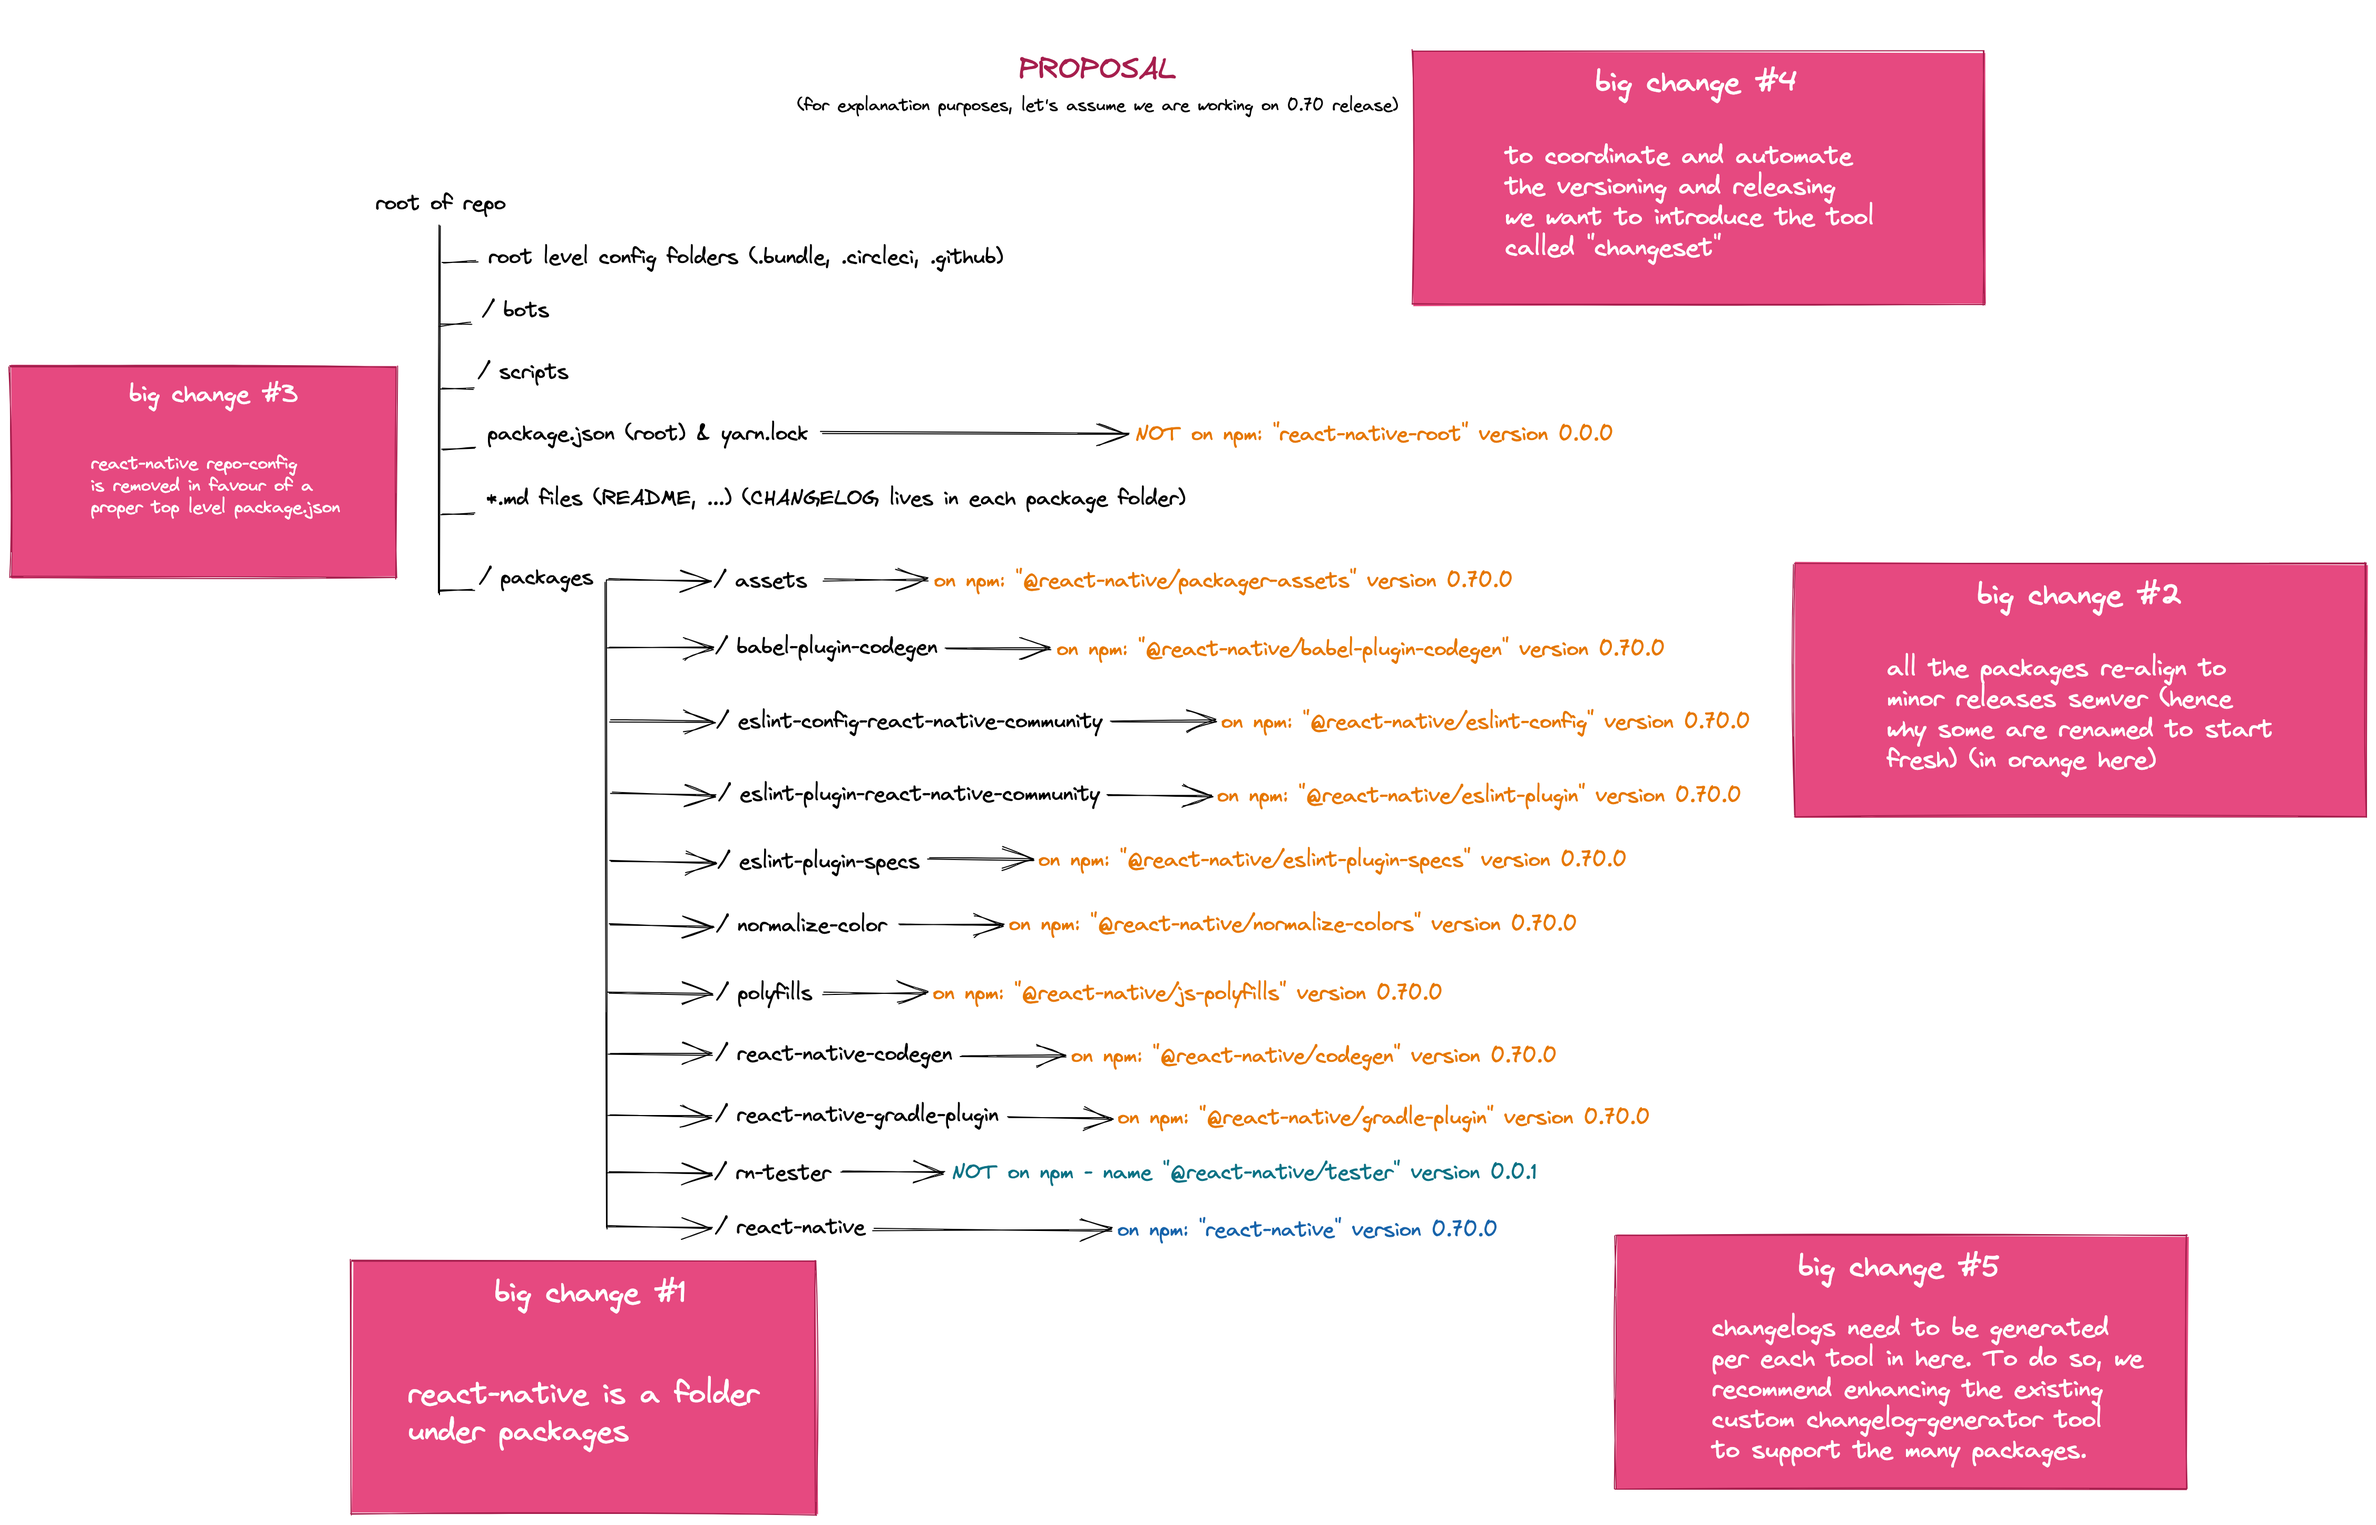
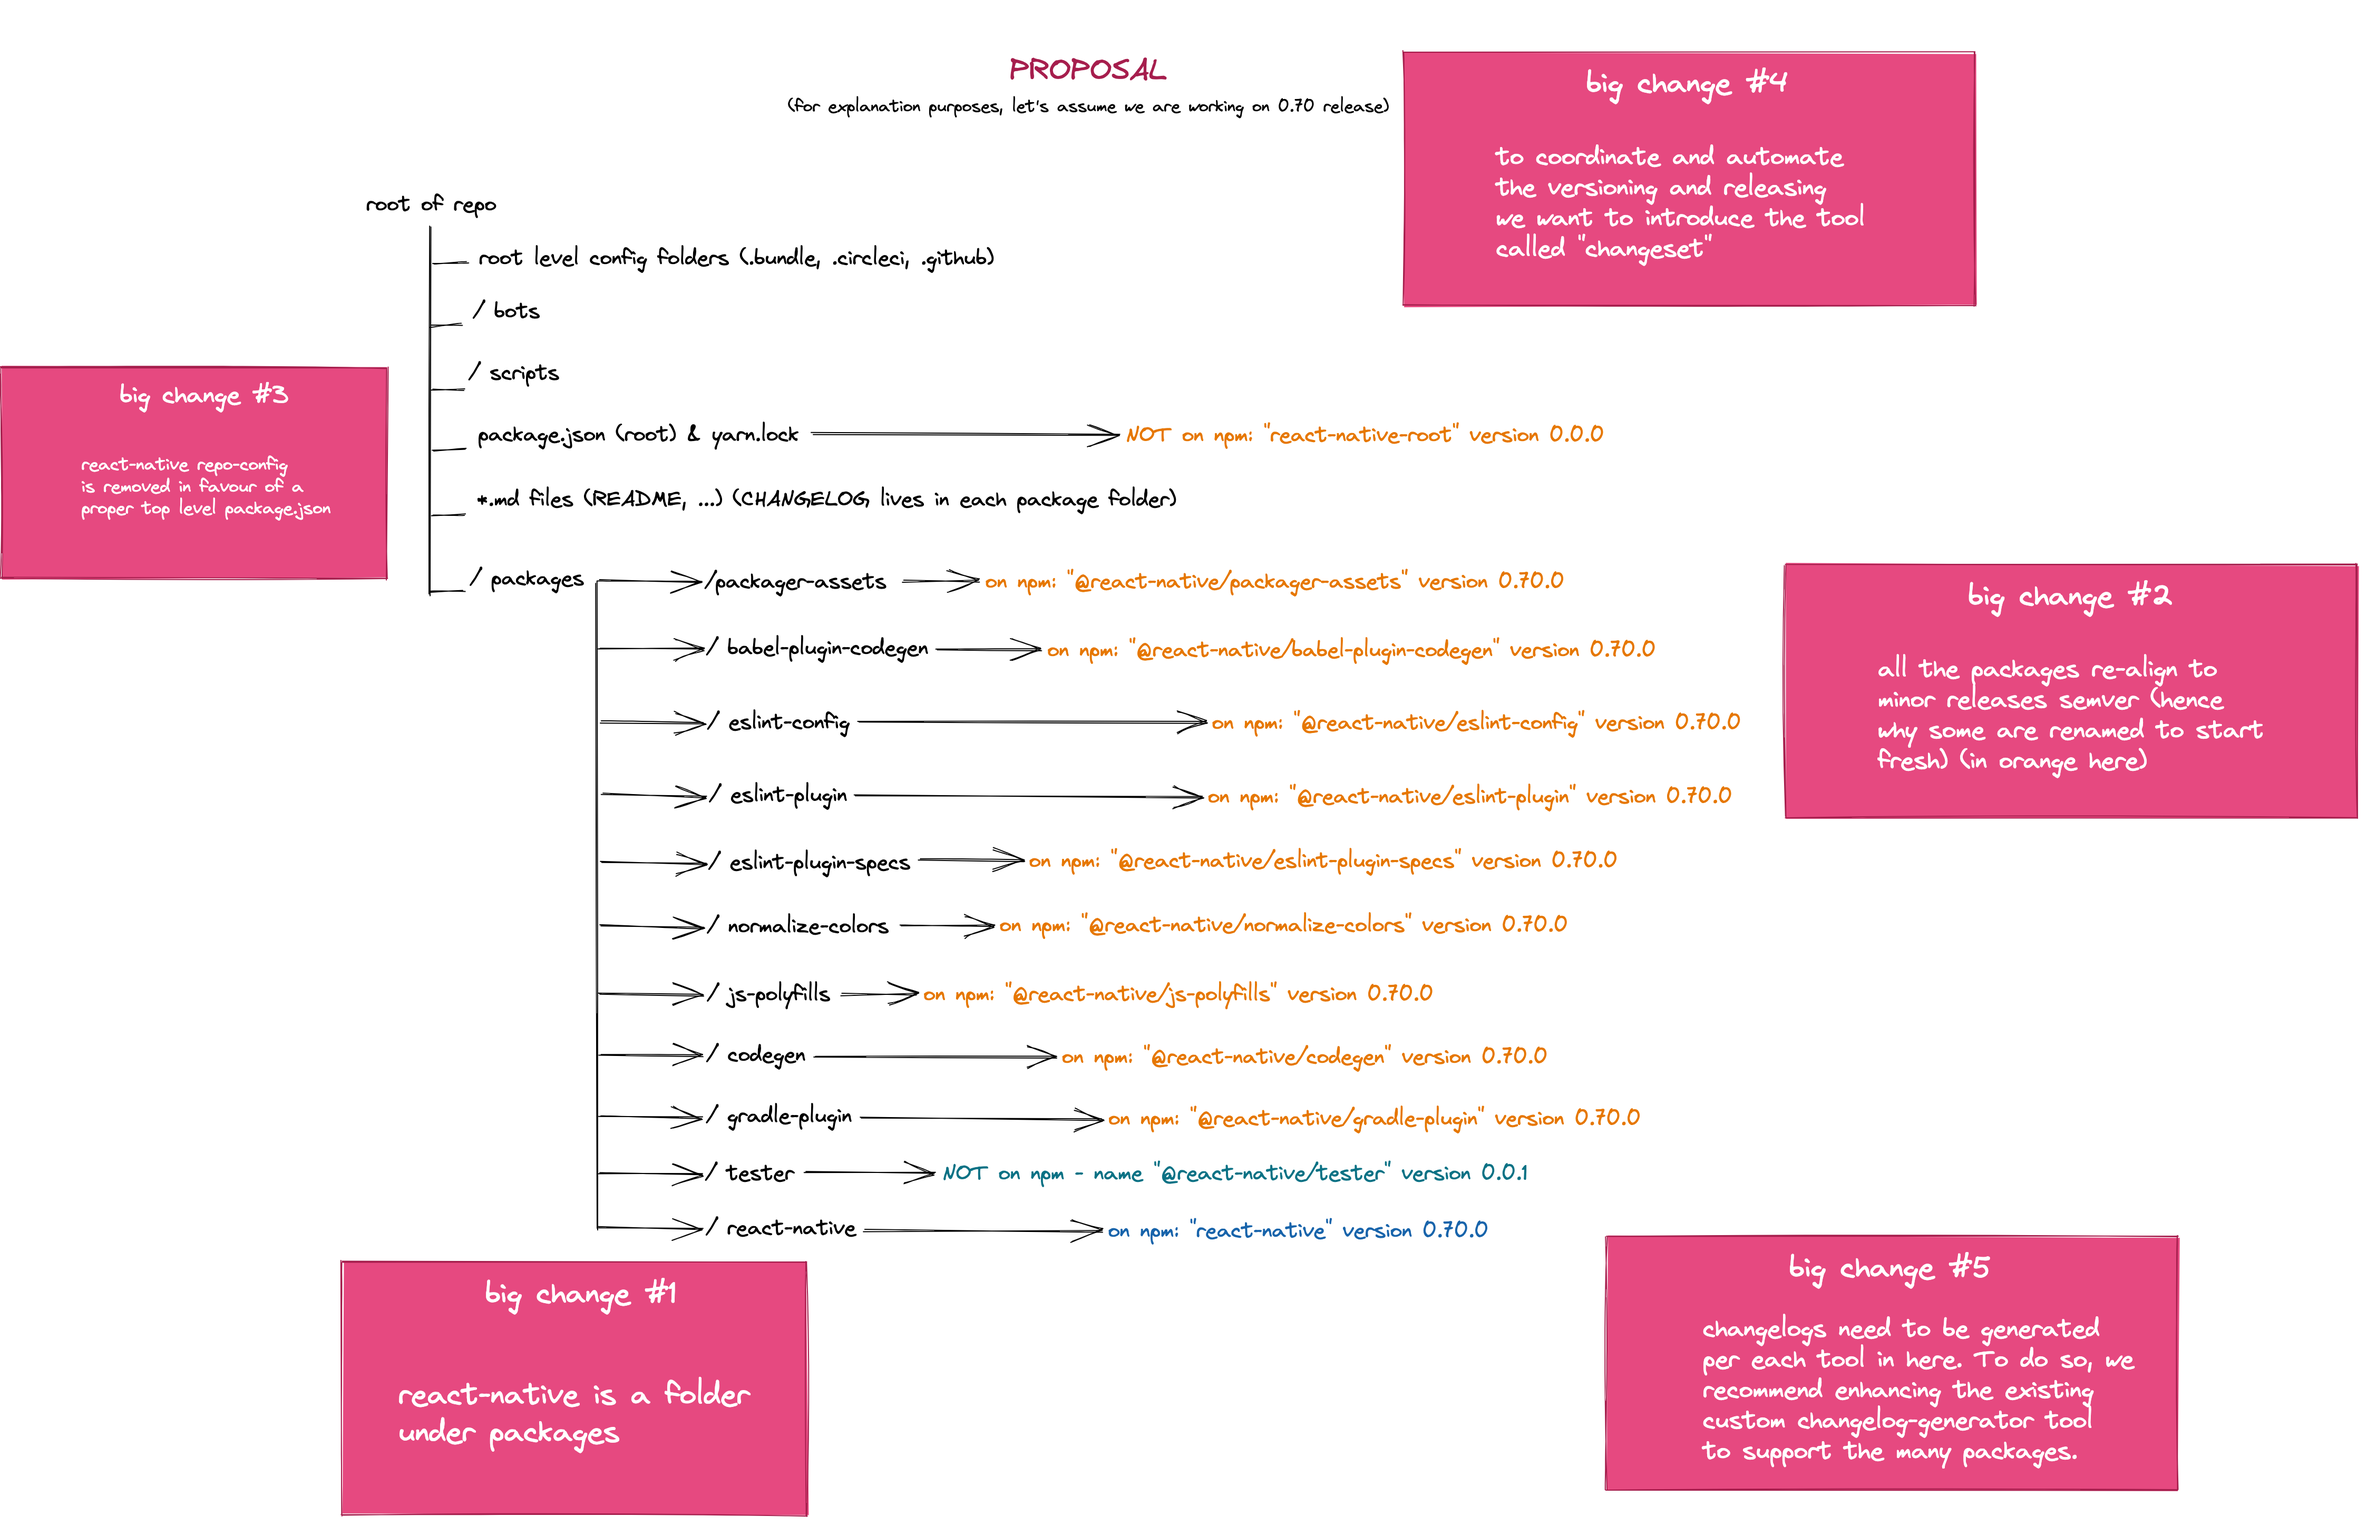
add folder names changes

diff --git a/proposals/0006-react-native-monorepo.md b/proposals/0006-react-native-monorepo.md
@@ -90,6 +90,9 @@ Reiterating the changes proposed in the graph:
 - step 1 is to move the `react-native` specific code in its own folder within the `packages/` folder. This is the most error prone step to handle, as many paths and variables might have to be modified (for ex. in the CI configurations) to accommodate for this change.
 - step 2 is to **rename** some of other packages as shown above, and in this table:
 
+  <details>
+  <summary>Expand table of package.json/npm names</summary>
+
   | old name                              | new name                           |
   | ------------------------------------- | ---------------------------------- |
   | @react-native/assets                  | @react-native/packager-assets      |
@@ -101,7 +104,26 @@ Reiterating the changes proposed in the graph:
   | react-native-codegen                  | @react-native/codegen              |
   | react-native-gradle-plugin            | @react-native/gradle-plugin        |
 
-  - this step is needed to allow to reset the versioning and introduce alignment across the board
+  </details>
+
+  <details>
+  <summary>Optional: change name of folders</summary>
+
+  | old path                                                   | new path                                   |
+  | ---------------------------------------------------------- | ------------------------------------------ |
+  | react-native/packages/assets                               | react-native/packages/packager-assets      |
+  | react-native/packages/babel-plugin-codegen                 | react-native/packages/babel-plugin-codegen |
+  | react-native/packages/eslint-config-react-native-community | react-native/packages/eslint-config        |
+  | react-native/packages/eslint-plugin-react-native-community | react-native/packages/eslint-plugin        |
+  | react-native/packages/normalize-color                      | react-native/packages/normalize-colors     |
+  | react-native/packages/polyfills                            | react-native/packages/js-polyfills         |
+  | react-native/packages/react-native-codegen                 | react-native/packages/codegen              |
+  | react-native/packages/react-native-gradle-plugin           | react-native/packages/gradle-plugin        |
+  | react-native/packages/rn-tester                            | react-native/packages/tester               |
+
+  </details>
+
+  - _(this step is needed to allow to reset the versioning and introduce alignment across the board)_
 
 - this will need to be followed up by releasing a new version of the packages with the new npm name/org (and version number)
 - this will require a ripple effect of renaming also the places in which those packages are consumed, and to the new version, in the rest of the codebase.
